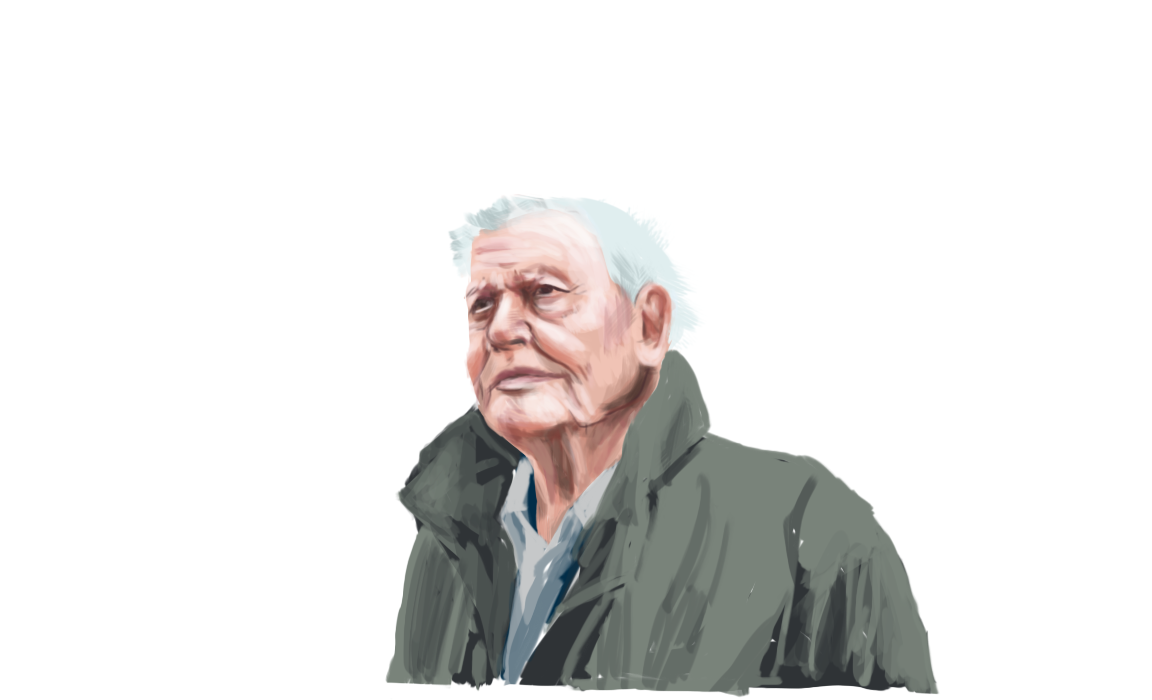
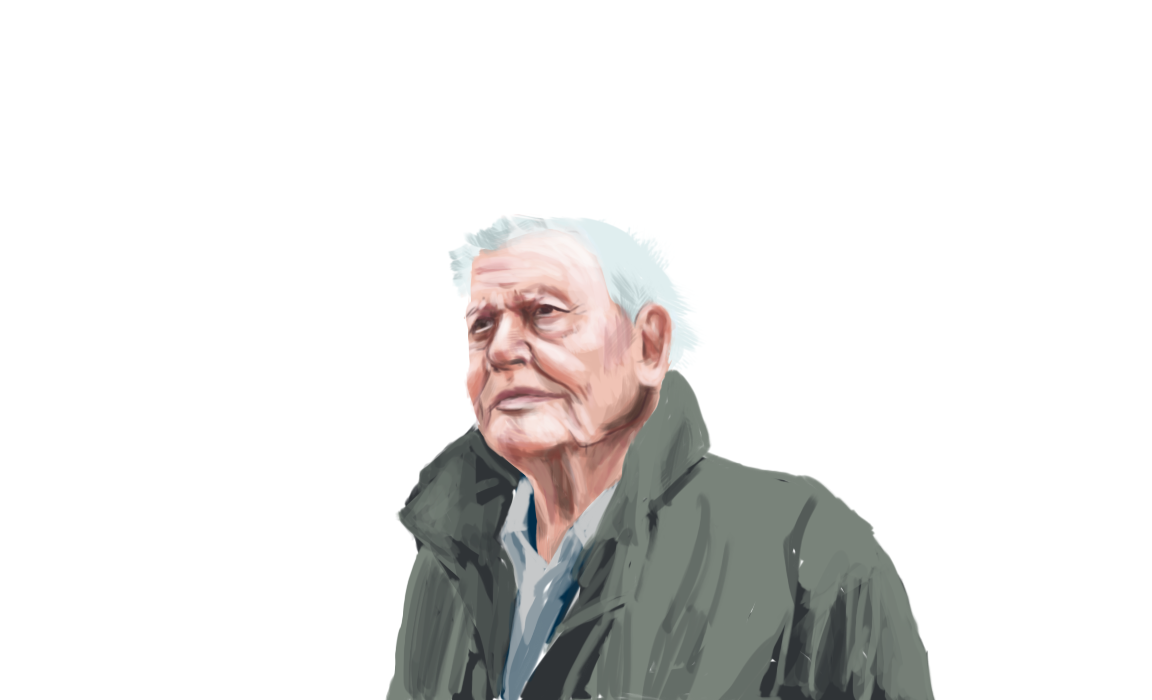
imgs update, some grid and first animation

Changed region(s): [[0.3125, 0.27, 0.8125, 1.0]]

diff --git a/index.html b/index.html
@@ -9,43 +9,120 @@
 	<link rel="stylesheet" type="text/css" href="style.css">
 </head>
 <body>
-	<section class="textbox">
-		<h1></h1>
+	<section class="textbox col-12">
+		<h4>Follow in the footsteps of</h4>
+		<h1>Sir David Attenborough</h1>
 	</section>
-	<section class="textbox">
-		<h4>just testing the padding</h4>
+	<section class="textbox col-12">
+		<h4>Sir David Attenborough is known as a nature enthusiast, broadcaster and educator</h4>
 	</section>
-	<section id="portrait" class="illubox">
-		<div class="centered-bg absolute" data-top="transform: translateY(-80px);" data--100-top="transform: translateY(120px);">
-			<img src="imgs/portrait-bg2.png">
+	<section id="portrait" class="illubox col-12">
+		<div class="centered-bg absolute" data-top="transform: translateY(-50px);" data--100-top="transform: translateY(120px);">
+			<img src="imgs/portrait-bg1.png" class="col-12 nopadding">
 		</div>
 		<div class="centered-bg absolute" data-top="transform: translateY(0px);" data--100-top="transform: translateY(150px);">
-			<img src="imgs/portrait-bg1.png">
+			<img src="imgs/portrait-bg2.png" class="col-12 nopadding">
 		</div>
 		<div class="portrait-david absolute">
-			<img src="imgs/portrait-david.png">
+			<img src="imgs/portrait-david.png" class="col-12">
 		</div>
 	</section>
-	<section class="textbox"></section>
-	<section id="zooquest" class="illubox">
+	<section class="textbox col-12">
+		<h4>His first major appearance was in nature documentary Zoo Quest, an animal collector trip for the London Zoo</h4>
+	</section>
+	<section id="zooquest" class="illubox col-12 nopadding">
+		<div class="absolute" data-top="transform: translateY(-100px);" data-bottom="transform: translateY(0px);">
+			<img src="imgs/zoo-quest-bg.png" class="col-12 nopadding">
+		</div>
+		<div class="zoo-quest-david absolute" data-100-top="transform: translateY(150px);" data--50-bottom="transform: translateY(-50px);" data-anchor-target="#zooquest">
+			<img src="imgs/zoo-quest-david.png" class="col-12">
+		</div>
+	</section>
+	<section class="textbox col-12">
+		<h4>In an incredible career spanning 7 decades, he has shown us how wonderful our planet and its inhabitants are</h4>
+	</section>
+	<section id="gorillas" class="illubox col-12">
+		<div class="centered-bg absolute" data-top="transform: translateY(-50px);" data--100-top="transform: translateY(120px);">
+			<img src="imgs/gorillas-leaves1.png" class="col-12 nopadding">
+		</div>
+		<div class="centered-bg absolute" data-top="transform: translateY(-50px);" data--100-top="transform: translateY(120px);">
+			<img src="imgs/gorillas-leaves2.png" class="col-12 nopadding">
+		</div>
+		<div class="absolute" data-top="transform: translateY(-50px);" data--100-top="transform: translateY(120px);">
+			<img src="imgs/gorillas-gorilla.png" class="col-12">
+		</div>
+		<div class="absolute" data-top="transform: translateY(-50px);" data--100-top="transform: translateY(120px);">
+			<img src="imgs/gorillas-david.png" class="col-12">
+		</div>
+	</section>
+	<section class="textbox col-12">
+		<h4>He has shared unforgettable moments of joy and invaluable knowledge with us</h4>
+	</section>
+	<section id="whale" class="illubox">
+		<div class="centered-bg absolute" data-bottom="transform: translateY(0px);" data-bottom="transform: translateY(0px);">
+			<img src="imgs/whale-sea.png" class="col-12 nopadding">
+		</div>
+		<div class="absolute" data-top="transform: translateY(0px);" data--100-top="transform: translateY(120px);">
+			<img src="imgs/whale-whale.png" class="col-12 nopadding">
+		</div>
+		<div class="absolute" data-top="transform: translateY(0px);" data--100-top="transform: translateY(120px);">
+			<img src="imgs/whale-drops.png" class="col-12 nopadding">
+		</div>
+		<div class="absolute" data-top="transform: translateY(0px);" data--100-top="transform: translateY(120px);">
+			<img src="imgs/whale-david.png" class="col-12 nopadding">
+		</div>
+	</section>
+	<section class="textbox col-12">
+		<h4>Many plant and animal species were named after him,including a dinosaur</h4>
+	</section>
+	<section id="species" class="illubox">
 		<div class="absolute">
-			<img src="imgs/zoo-quest-bg.png">
+			<img src="imgs/species-row1.png" class="col-12">
 		</div>
-		<div class="zoo-quest-david absolute">
-			<img src="imgs/zoo-quest-david.png">
+		<div class="absolute">
+			<img src="imgs/species-row2.png" class="col-12">
+		</div>
+		<div class="absolute">
+			<img src="imgs/species-row3.png" class="col-12">
 		</div>
 	</section>
-	<section class="textbox"></section>
-	<section id="gorillas" class="illubox"></section>
-	<section class="textbox"></section>
-	<section id="whale" class="illubox"></section>
-	<section class="textbox"></section>
-	<section id="species" class="illubox"></section>
-	<section class="textbox"></section>
-	<section id="manta" class="illubox"></section>
-	<section class="textbox"></section>
-	<section id="scenery" class="illubox"></section>
-	<section class="textbox"></section>
+	<section class="textbox col-12">
+		<h4>His work has inspired generations of viewers, and set an example for wildlife film makers</h4>
+	</section>
+	<section id="manta" class="illubox">
+		<div class="centered-bg absolute" data-top="transform: translateY(-50px);" data--100-top="transform: translateY(120px);">
+			<img src="imgs/manta-bubbles1.png" class="col-12 nopadding">
+		</div>
+		<div class="centered-bg absolute" data-top="transform: translateY(-50px);" data--100-top="transform: translateY(120px);">
+			<img src="imgs/manta-bubbles2.png" class="col-12 nopadding">
+		</div>
+		<div class="absolute" data-top="transform: translateY(-50px);" data--100-top="transform: translateY(120px);">
+			<img src="imgs/manta-manta.png" class="col-12">
+		</div>
+	</section>
+	<section class="textbox col-12">
+		<h4>“An understanding of the natural world is a source of not only great curiosity, but great fulfilment.”</h4>
+	</section>
+	<section id="scenery" class="illubox">
+		<div class="centered-bg absolute" data-top="transform: translateY(-50px);" data--100-top="transform: translateY(120px);">
+			<img src="imgs/scenery-mount1.png" class="col-12 nopadding">
+		</div>
+		<div class="centered-bg absolute" data-top="transform: translateY(-50px);" data--100-top="transform: translateY(120px);">
+			<img src="imgs/scenery-mount2.png" class="col-12 nopadding">
+		</div>
+		<div class="centered-bg absolute" data-top="transform: translateY(-50px);" data--100-top="transform: translateY(120px);">
+			<img src="imgs/scenery-mount3.png" class="col-12 nopadding">
+		</div>
+		<div class="centered-bg absolute" data-top="transform: translateY(-50px);" data--100-top="transform: translateY(120px);">
+			<img src="imgs/scenery-mount4.png" class="col-12 nopadding">
+		</div>
+		<div class="absolute" data-top="transform: translateY(-50px);" data--100-top="transform: translateY(120px);">
+			<img src="imgs/scenery-birds.png" class="col-12">
+		</div>
+	</section>
+	<section class="textbox col-12">
+		<h4>Thank you for watching!</h4>
+	</section>
 
 	<script type="text/javascript" src="dist/skrollr.min.js"></script>
 	<script type="text/javascript">

diff --git a/style.css b/style.css
@@ -1,31 +1,58 @@
+html,
+body {
+	box-sizing: border-box;
+	height: 100%;
+	margin: 0;
+	padding: 0;
+}
+.nopadding {
+	padding: 0 !important;
+}
 .absolute {
 	position: absolute;
 }
 .textbox {
 	padding: 3rem;
-	text-align: center; 
+	text-align: center;
+	height: 40vh;
 }
 .illubox {
 	position: relative;
-	height: 100vh;
+	height: 50vh;
 }
 section {
 	overflow: hidden;
 }
 .centered-bg {
-	left: 50%;
-	margin-left: -576px;
+	left: 0;
+	right: 0;
+	margin: auto;
 }
 #portrait {
-	background-color: #232f2a;
+	background-color: #1e2d29;
 }
 .portrait-david {
 	left: 20%;
 	bottom: -50px;
 }
 #zooquest {
-	background-color: #d6c5b1;
+	background-color: #c3b590;
 }
 .zoo-quest-david {
 	bottom: -50px;
+}
+#gorillas {
+	background-color: #2e3c17;
+}
+#whale, #scenery {
+	background-color: #c1e1ff;
+}
+#manta {
+	background-color: #013f68;
+}
+
+@media screen and (min-width: 400px){
+	.illubox {
+		height: 110vh;
+	}
 }
